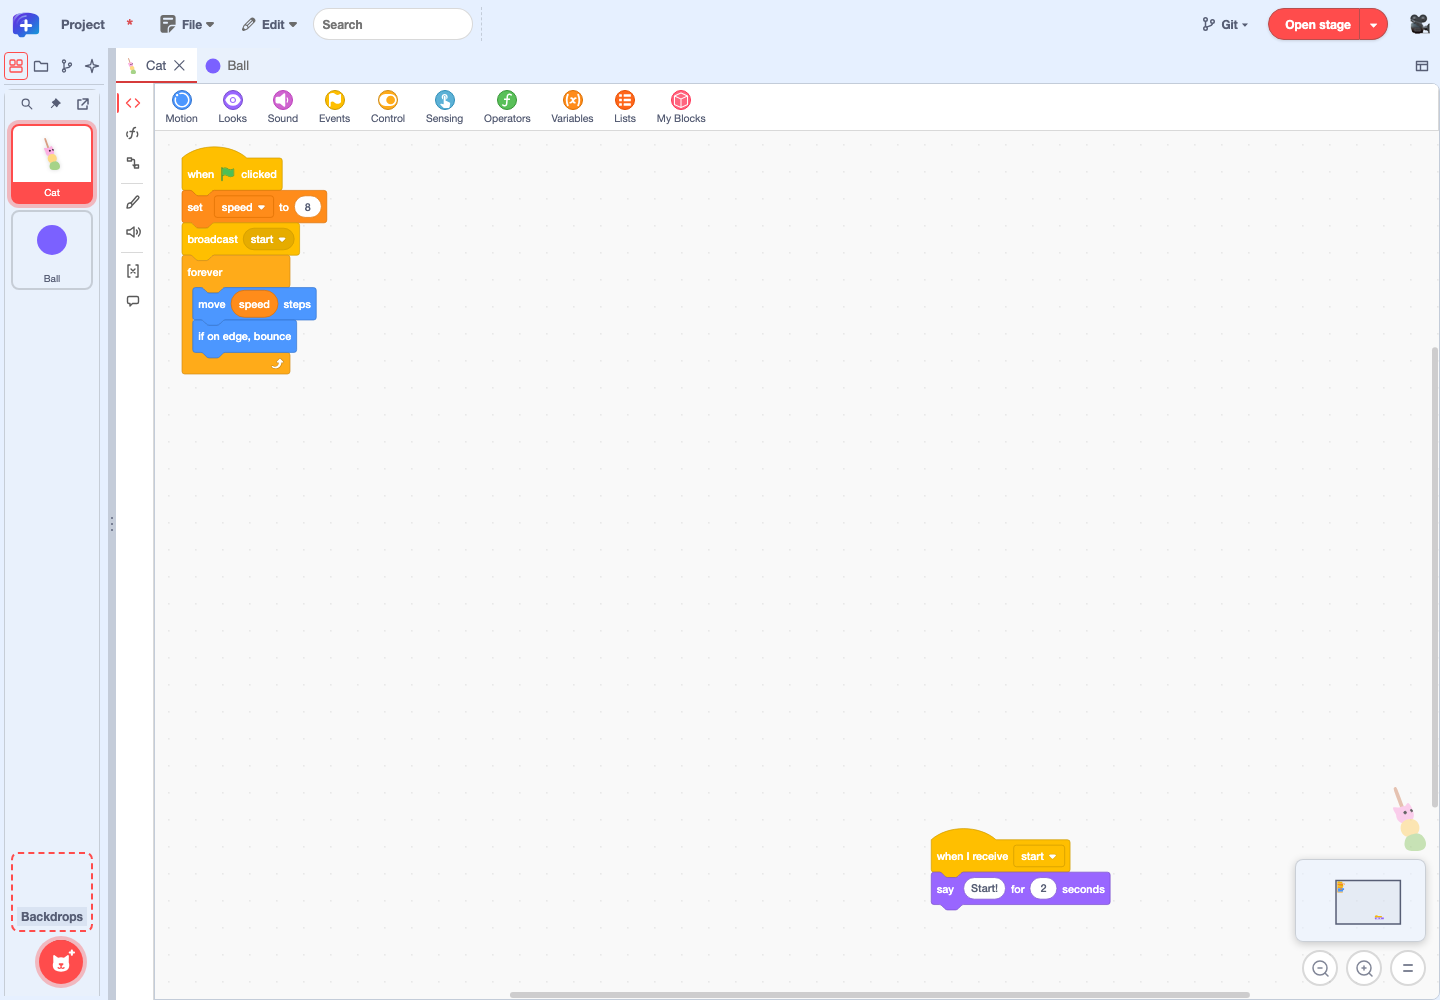
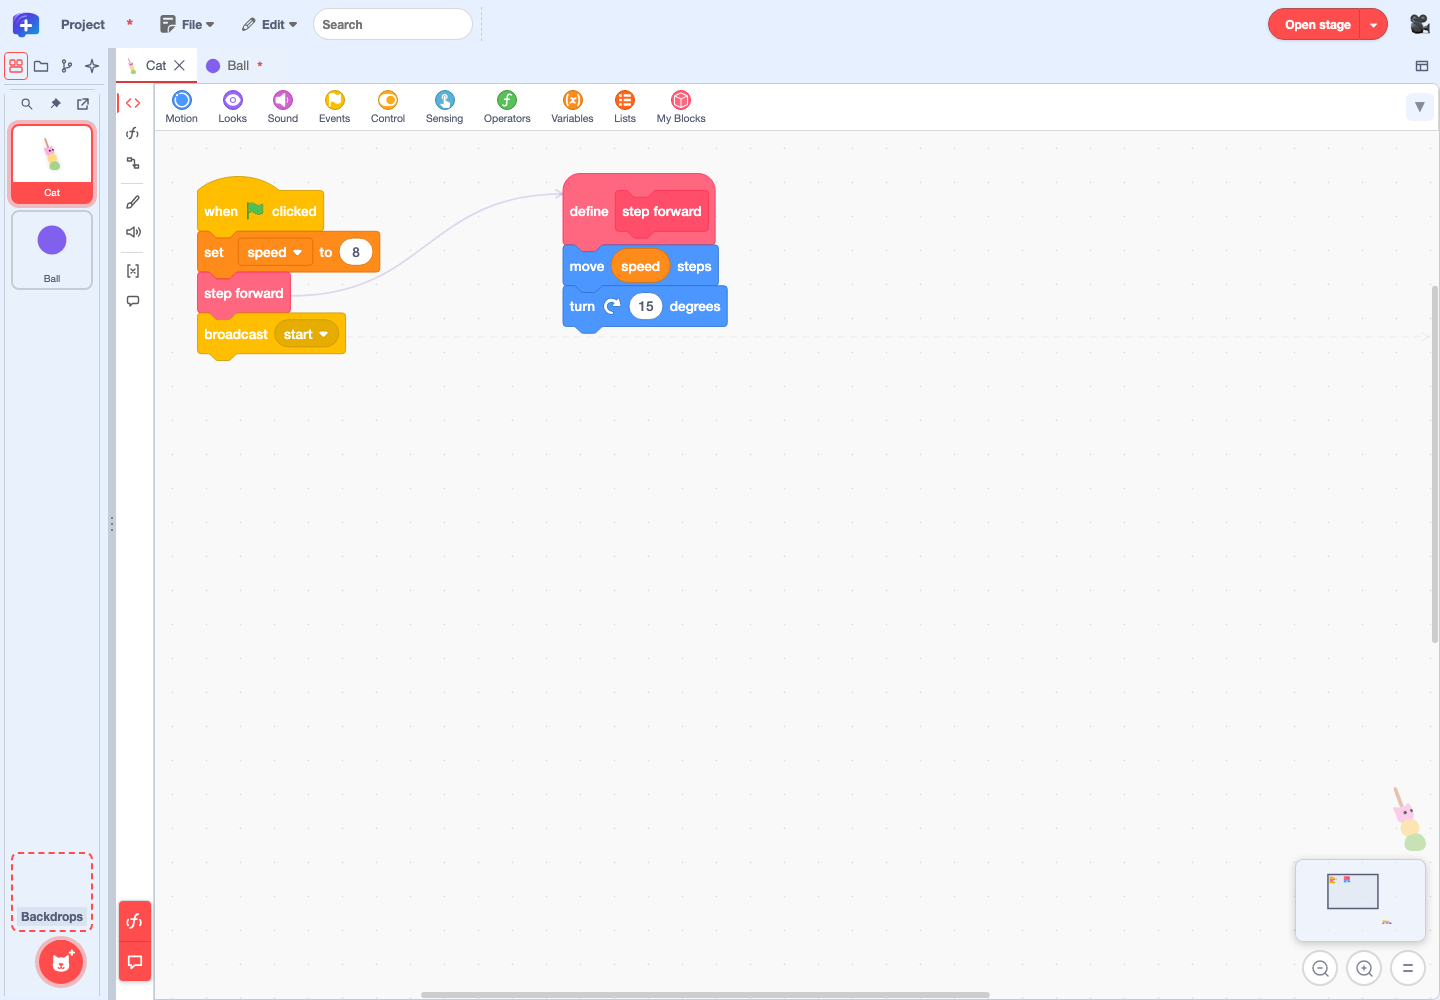
docs(editor): refresh free-layout figures on code-views 0.21.2

diff --git a/docs/features/blocks/index.html b/docs/features/blocks/index.html
@@ -106,7 +106,8 @@
 <h2>6.7 ミニマップとズームで長いコードを移動する</h2>
 
 <p>Plus標準配置では、コード画面右下のミニマップで、開いているスプライトのブロック全体の位置を見渡せます。ミニマップとその下のボタンは、ポインターをコード領域に置いている間だけ表示されます。ミニマップの枠は現在の表示範囲です。離れたブロックへ移動するときは、ミニマップ内の移動先をクリックするか、枠をドラッグします。下に並ぶボタンで縮小・拡大したり、倍率を初期値に戻したりできます。</p>
-<figure><a href="../images/minimap-current.png"><img src="../images/minimap-current.png" width="1440" height="1000" alt="左上と右下に離してスクリプトを置いたコード画面。右下にミニマップと、縮小・拡大・リセットのボタンが並ぶ。" loading="lazy"></a><figcaption>右下のミニマップには、このスプライトのスクリプト全体が表示され、枠が現在の表示範囲を示します。</figcaption></figure>
+<figure><a href="../images/minimap-current.png"><img src="../images/minimap-current.png" width="1440" height="1000" alt="自由配置に関数の定義と呼び出しを置き、離れた位置にメッセージを受け取るスクリプトを置いた画面。右下のミニマップには画面外のスクリプトも表示されている。" loading="lazy"></a><figcaption>右下のミニマップには、画面外に離して置いたスクリプトも表示され、枠が現在の表示範囲を示します。実線は関数呼び出し、破線はメッセージ送信の関係です。</figcaption></figure>
+<p>自由配置では、倍率を2%まで縮小できます。広く配置したスクリプト全体を見渡してから、編集したい場所を拡大できます。</p>
 <p>ミニマップを表示しないようにするには、<code>twPlusWorkspaceMinimap=0</code> を指定します。</p>
 
 </section>
@@ -116,7 +117,7 @@
 <h2>6.8 右クリックメニューで操作する</h2>
 
 <p>ブロック、コード領域の空白、スプライトのタイル、コスチュームや音などの右クリックメニューでは、各項目に操作を表すアイコンが付きます。</p>
-<figure class="guide-detail"><a href="../images/workspace-context-menu.png"><img src="../images/workspace-context-menu.png" width="600" height="340" alt="コード領域の空白の右クリックメニュー。取り消し、やり直し、きれいにする +、コメントを追加、9 個のブロックを削除、スクリプトを読み込み、貼り付け、コードの並びの見え方を変更するが並び、サブメニューに通常配置の見え方（チェック付き）、Z配置の見え方、N配置の見え方が表示されている。" loading="lazy"></a><figcaption>コード領域の空白の右クリックメニュー。「コードの並びの見え方を変更する」のサブメニューを開いたところ。</figcaption></figure>
+<figure class="guide-detail"><a href="../images/workspace-context-menu.png"><img src="../images/workspace-context-menu.png" width="575" height="311" alt="自由配置の空白を右クリックし、「コードの並びの見え方を変更する」から、通常配置・Z配置・N配置のサブメニューを開いた画面。" loading="lazy"></a><figcaption>コード領域の空白の右クリックメニュー。「コードの並びの見え方を変更する」のサブメニューを開いたところ。</figcaption></figure>
 <figure class="guide-detail"><a href="../images/sprite-context-menu.png"><img src="../images/sprite-context-menu.png" width="420" height="360" alt="スプライトのタイルの右クリックメニュー。開く、複製、書き出し、スプライト名の変更、削除、フォルダーを作成にアイコンが並ぶ。" loading="lazy"></a><figcaption>スプライトのタイルの右クリックメニュー。</figcaption></figure>
 <figure class="guide-detail"><a href="../images/block-context-menu.png"><img src="../images/block-context-menu.png" width="640" height="480" alt="ブロックの右クリックメニュー。コメントを追加、このブロックだけ切り取り、複製、このブロックだけコピー、ここから下をコピー、かたまりごとコピー、かたまりをファイルに保存…、このかたまりの下を空けて整列、折りたたみ、ブロックを削除が、操作の種類ごとに区切られて並ぶ。" loading="lazy"></a><figcaption>ブロックの右クリックメニュー。「かたまりをファイルに保存…」は下向き矢印、「ブロックを削除」はゴミ箱のアイコンです。</figcaption></figure>
 <div class="table-scroll" role="region" aria-label="右クリックメニューの主な項目" tabindex="0">

diff --git a/docs/features/blocks/index.en.html b/docs/features/blocks/index.en.html
@@ -106,7 +106,8 @@
 <h2>6.7 Move around long code with the minimap and zoom</h2>
 
 <p>In the Plus layout, the minimap at the bottom right of the code area gives an overview of where all of the open sprite's blocks are. The minimap and the buttons below it appear only while the pointer is over the code area. The frame in the minimap is the area currently in view. To move to distant blocks, click the destination in the minimap or drag the frame. Use the buttons below it to zoom out, zoom in, or reset the zoom.</p>
-<figure><a href="../images/en/minimap-current.png"><img src="../images/en/minimap-current.png" width="1440" height="1000" alt="A code area with scripts placed far apart at the top left and bottom right. At the bottom right are the minimap and the zoom out, zoom in, and reset buttons." loading="lazy"></a><figcaption>The minimap at the bottom right shows all of this sprite's scripts, and its frame marks the area in view.</figcaption></figure>
+<figure><a href="../images/en/minimap-current.png"><img src="../images/en/minimap-current.png" width="1440" height="1000" alt="Free layout with a function definition and call, and a message receiver placed far away. The minimap at the bottom right also shows the script outside the viewport." loading="lazy"></a><figcaption>The minimap also shows scripts placed far outside the viewport, and its frame marks the area in view. Solid arrows show function calls; dashed arrows show message broadcasts.</figcaption></figure>
+<p>Free layout can zoom out to 2%. You can see scripts spread across a large area, then zoom in where you want to edit.</p>
 <p>To hide the minimap, specify <code>twPlusWorkspaceMinimap=0</code>.</p>
 
 </section>
@@ -116,7 +117,7 @@
 <h2>6.8 Work with context menus</h2>
 
 <p>In the context menus for blocks, empty space in the code area, sprite tiles, costumes, sounds, and so on, each item has an icon that represents its action.</p>
-<figure class="guide-detail"><a href="../images/en/workspace-context-menu.png"><img src="../images/en/workspace-context-menu.png" width="600" height="340" alt="The context menu for empty space in the code area: Undo, Redo, Clean up Blocks +, Add Comment, Delete 9 Blocks, Import Script, Paste, and Change code layout view, with a submenu showing Normal layout view (checked), Z layout view, and N layout view." loading="lazy"></a><figcaption>The context menu for empty space in the code area, with the "Change code layout view" submenu open.</figcaption></figure>
+<figure class="guide-detail"><a href="../images/en/workspace-context-menu.png"><img src="../images/en/workspace-context-menu.png" width="533" height="261" alt="The context menu for empty space in Free layout, with the Change code layout view submenu open to Normal, Z, and N layout views." loading="lazy"></a><figcaption>The context menu for empty space in the code area, with the "Change code layout view" submenu open.</figcaption></figure>
 <figure class="guide-detail"><a href="../images/en/sprite-context-menu.png"><img src="../images/en/sprite-context-menu.png" width="420" height="360" alt="The context menu for a sprite tile: Open, duplicate, export, Rename sprite, delete, and create folder, each with an icon." loading="lazy"></a><figcaption>The context menu for a sprite tile.</figcaption></figure>
 <figure class="guide-detail"><a href="../images/en/block-context-menu.png"><img src="../images/en/block-context-menu.png" width="640" height="480" alt="The context menu for a hat block: Add Comment, Cut This Block Only, Duplicate, Copy This Block Only, Copy From Here Down, Copy Whole Stack, Save Stack to File…, Tidy Up, Leaving Room Below This Stack, Fold, and Delete Block, grouped by kind of operation." loading="lazy"></a><figcaption>The context menu for a block. "Save Stack to File…" has a downward arrow and "Delete Block" a trash can icon.</figcaption></figure>
 <div class="table-scroll" role="region" aria-label="Main context menu items" tabindex="0">

diff --git a/docs/landing/index.html b/docs/landing/index.html
@@ -45,7 +45,7 @@
             </a>
           </div>
           <a class="hero-detail hero-detail-split" href="features/workspace/#multi-edit-view" data-en-href="features/workspace/index.en.html#multi-edit-view">
-            <img class="shot" src="features/images/top-split-minimap.png" data-en-src="features/images/en/top-split-minimap.png" width="970" height="437" alt="{{heroSplitShot}}" data-alt="heroSplitShot">
+            <img class="shot" src="features/images/top-split-minimap.png" data-en-src="features/images/en/top-split-minimap.png" width="1328" height="598" alt="{{heroSplitShot}}" data-alt="heroSplitShot">
             <span data-text="heroSplit">{{heroSplit}}</span>
           </a>
           <a class="hero-detail hero-detail-messages" href="features/sprites/#messages" data-en-href="features/sprites/index.en.html#messages">

diff --git a/README.ja.md b/README.ja.md
@@ -35,7 +35,7 @@
 
 | 編集ツールにすぐ届く画面構成 | ステージやパネルを別ウィンドウへ |
 | --- | --- |
-| <a href="https://kubohiroya.github.io/turbowarp-plus-editor/features/screen/#layout"><img src="docs/features/images/top-editor.png" width="640" alt="ネコとボールのスプライトと、ブロックを並べたコードの画面"></a> | <a href="https://kubohiroya.github.io/turbowarp-plus-editor/features/stage/#dock"><img src="docs/features/images/top-stage-window.png" width="300" alt="別のウィンドウに出したステージ"></a> |
+| <a href="https://kubohiroya.github.io/turbowarp-plus-editor/features/screen/#layout"><img src="docs/features/images/top-editor.png" width="640" alt="ネコとボールの自由配置。関数呼び出しの実線とメッセージ送信の破線、右下のミニマップを表示"></a> | <a href="https://kubohiroya.github.io/turbowarp-plus-editor/features/stage/#dock"><img src="docs/features/images/top-stage-window.png" width="300" alt="別のウィンドウに出したステージ"></a> |
 
 スプライト一覧は左側に、ブロックのカテゴリはコード画面の上辺に、コード・コスチューム・音・変数・メッセージの切り替えはパネル側面のボタンにまとまっています。パレットのサイズとスクロール位置はカテゴリごとに保持されます。パネルの固定やサイズ調整、作業領域と別ウィンドウ間の移動もできます。[画面構成](https://kubohiroya.github.io/turbowarp-plus-editor/features/screen/) · [作業領域](https://kubohiroya.github.io/turbowarp-plus-editor/features/workspace/)
 

diff --git a/README.md b/README.md
@@ -35,7 +35,7 @@ Hover to reveal controls, and drag and drop to rearrange tabs or copy blocks bet
 
 | Keep editing tools within reach | Open the stage or panels in separate windows |
 | --- | --- |
-| <a href="https://kubohiroya.github.io/turbowarp-plus-editor/features/screen/index.en.html#layout"><img src="docs/features/images/en/top-editor.png" width="640" alt="The code area with the cat and ball sprites and their scripts"></a> | <a href="https://kubohiroya.github.io/turbowarp-plus-editor/features/stage/index.en.html#dock"><img src="docs/features/images/en/top-stage-window.png" width="300" alt="The stage in its own window"></a> |
+| <a href="https://kubohiroya.github.io/turbowarp-plus-editor/features/screen/index.en.html#layout"><img src="docs/features/images/en/top-editor.png" width="640" alt="Free layout with Cat and Ball, solid function-call arrows, dashed message-broadcast arrows, and the minimap"></a> | <a href="https://kubohiroya.github.io/turbowarp-plus-editor/features/stage/index.en.html#dock"><img src="docs/features/images/en/top-stage-window.png" width="300" alt="The stage in its own window"></a> |
 
 The sprite list is on the left, block categories are across the top of the code area, and buttons down the side of each panel open code, costumes, sounds, variables, and messages. The palette remembers each category’s size and scroll position. Panels can be pinned, resized, and moved between the workspace and separate windows. [Screen layout](https://kubohiroya.github.io/turbowarp-plus-editor/features/screen/index.en.html) · [Workspace layout](https://kubohiroya.github.io/turbowarp-plus-editor/features/workspace/index.en.html)
 
